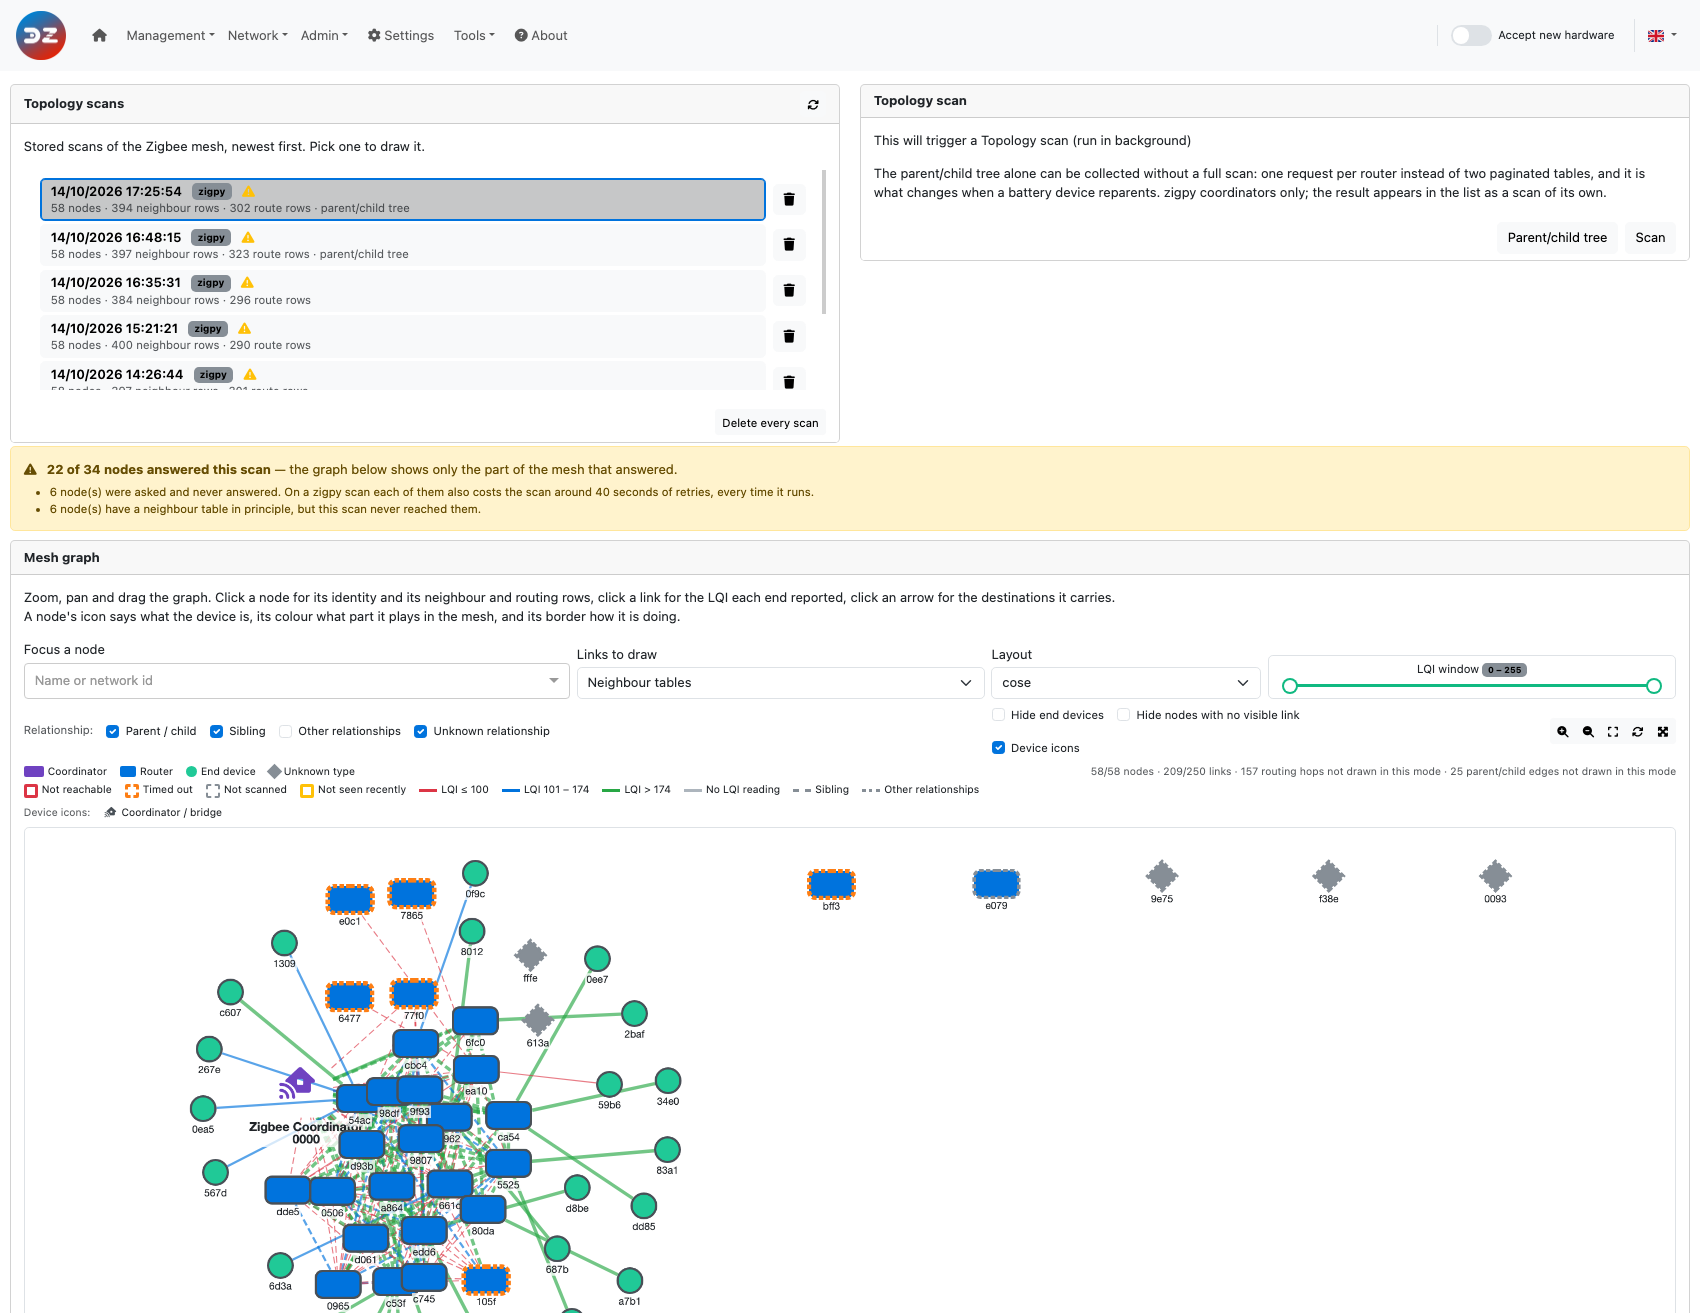
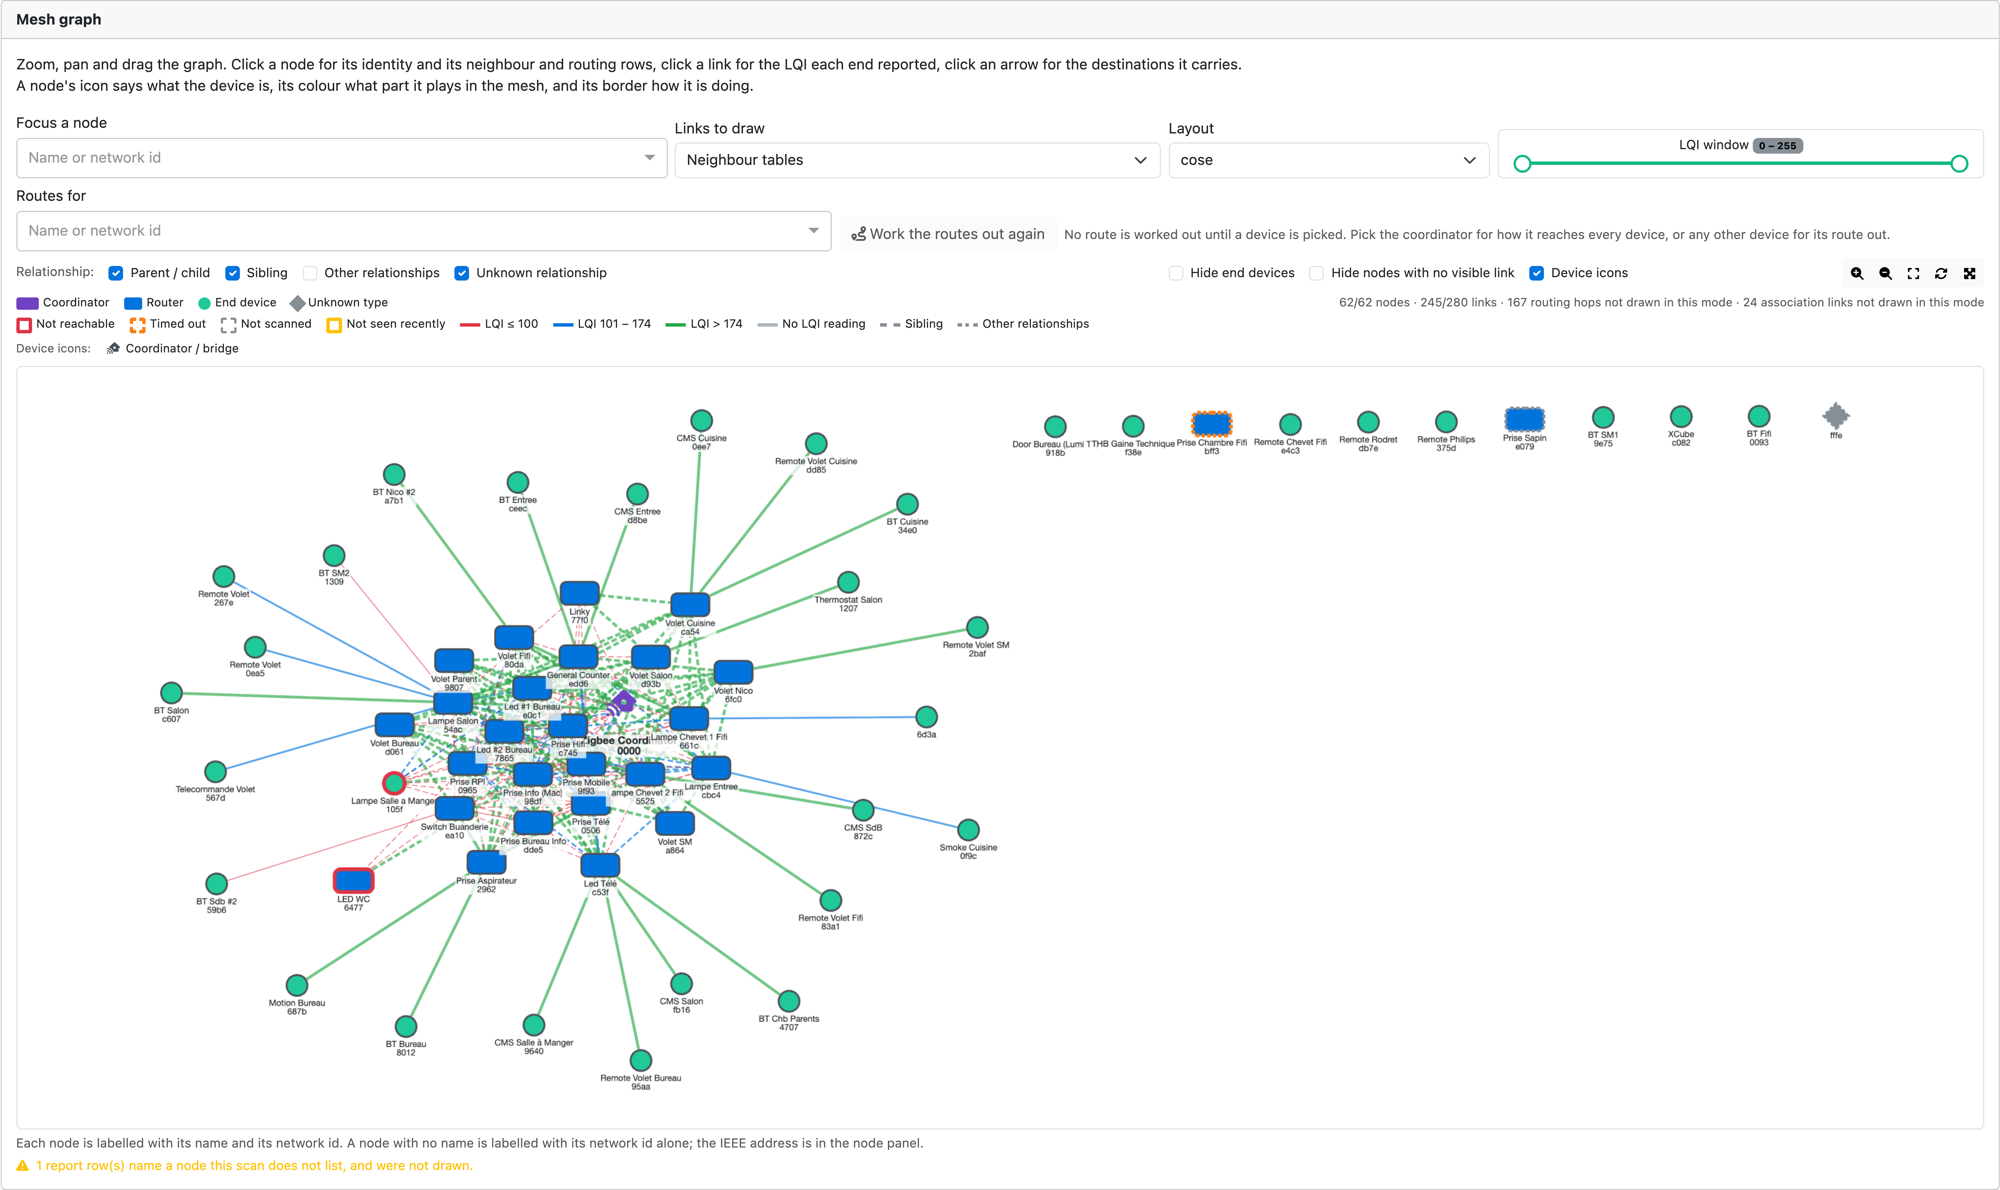
Re-shoot the Mesh graph figures from a named 62-device scan
The figures were rendered before the plugin's device list was fed to the
mock the screenshots are taken against, so every node was labelled with its
network id and a reader could not tell a bulb from a remote. The report
behind them has also moved on: 62 devices rather than 28, and a scan that
carries the associated devices as well as the neighbour and routing tables.

All six are from one scan of that report, captured with the device names in
place. The two route figures are from the live 9.1.008 installation itself.

The concentric figure goes. On a backbone whose routers all have a similar
number of links the layout puts one or two nodes in each ring and the middle
of the picture reads as a column, so the figure illustrated nothing the cose
one does not; the layout table says so instead.

Claude-Session: https://claude.ai/code/session_01TCWehX18W9wJQDTvA2i1Jb

diff --git a/en-eng/WebUI_Network-Mesh.md b/en-eng/WebUI_Network-Mesh.md
@@ -10,10 +10,11 @@ The page is reached from the WebUI menu: **Network > Mesh graph** (`/network/mes
 
 ![The Mesh graph page](Images/EN_WebUI-Network-Mesh-overview.png)
 
-*The screenshots on this page are rendered from a real 28-node report, so what they show is a real
-mesh rather than a mock-up. The devices appear under their network id because the report carries no
-device names; on your own installation each node is labelled with the name you gave it. These
-pictures may have changed since this documentation was written.*
+*The screenshots on this page are rendered from one real scan of a 62-device ZNP network - 25 of
+the 30 nodes that could answer did - so what they show is a real mesh rather than a mock-up. Each
+node carries the name you gave the device and its network id underneath; a device you never named
+is labelled with its network id alone. These pictures may have changed since this documentation was
+written.*
 
 Contents:
 
@@ -481,9 +482,10 @@ collection of its own - see [Refreshing the associated devices alone](#refreshin
 
 ![The associated devices view](Images/EN_WebUI-Network-Mesh-tree.png)
 
-*Each router declares the devices attached to it, and nothing in this table places the routers
-themselves - which is why it reads as a row of routers with their devices under them rather than as
-one hierarchy under the coordinator.*
+*Part of the associated devices view of the same scan, in the breadthfirst layout and zoomed in far
+enough to read the names: thirteen routers declared twenty-five devices between them. Nothing in
+this table places the routers themselves, which is why it reads as a row of routers with their
+devices under them rather than as one hierarchy under the coordinator.*
 
 ### It is not a record of how you paired the device
 
@@ -547,20 +549,19 @@ same nodes and the same links, arranged differently. Changing it recomputes the 
 | Layout | What it does | Best for |
 | ------ | ------------ | -------- |
 | **cose** *(default)* | Force-directed: links behave like springs, nodes repel each other, and the graph settles into its natural shape | **The general-purpose view, and the one to start from.** Clusters emerge on their own, so a group of devices that only hangs together through one router becomes visible as a lobe with a thin neck - which is exactly the fragile part of a mesh |
-| **concentric** | Rings around the coordinator, placed by how many links each node has | **Finding the hubs.** The most connected nodes land in the inner rings, the leaves on the outside. Good for answering "which repeaters is this network actually leaning on?" |
+| **concentric** | Rings around the coordinator, placed by how many links each node has | **Finding the hubs.** The most connected nodes land in the inner rings, the leaves on the outside. Good for answering "which repeaters is this network actually leaning on?" - but on a backbone where the routers all have a similar number of links, those inner rings hold one or two nodes each and the middle of the picture reads as a column rather than as rings |
 | **breadthfirst** | A hierarchy, rooted at the coordinator, level by level | **The associated devices view** - it is what that view is meant to be read in - and for seeing hop distance from the coordinator at a glance. It is the least useful on a densely meshed backbone, where it has to draw a hierarchy that does not really exist |
 | **circle** | Every node on one circle, in order | **Small networks, and auditing a single node.** Nothing is hidden behind anything else, and every link is a visible chord. It becomes unreadable past a few dozen nodes |
 | **grid** | Regular rows and columns | **Inventory rather than topology.** Every node occupies the same amount of space, so it is the easiest layout in which to confirm that a particular device is present, or to spot the isolated ones |
 
-The same mesh, in the two layouts that answer the most questions - **cose**, which lets the shape
-settle on its own:
+The neighbour tables of the same scan in **cose**, which lets the shape settle on its own, with
+*Hide nodes with no visible link* switched on so the layout has the canvas to itself:
 
 ![The neighbour view in the cose layout](Images/EN_WebUI-Network-Mesh-neighbours.png)
 
-and **concentric**, which rings the nodes by how connected they are, so the hubs the network leans
-on land in the middle:
-
-![The neighbour view in the concentric layout](Images/EN_WebUI-Network-Mesh-concentric.png)
+The routers in the middle are the backbone, every leaf around them hangs off one of those, and the
+thickness of the knot in the centre is itself the finding: on this network most routers hear most
+other routers.
 
 Practical sequence that works well:
 
